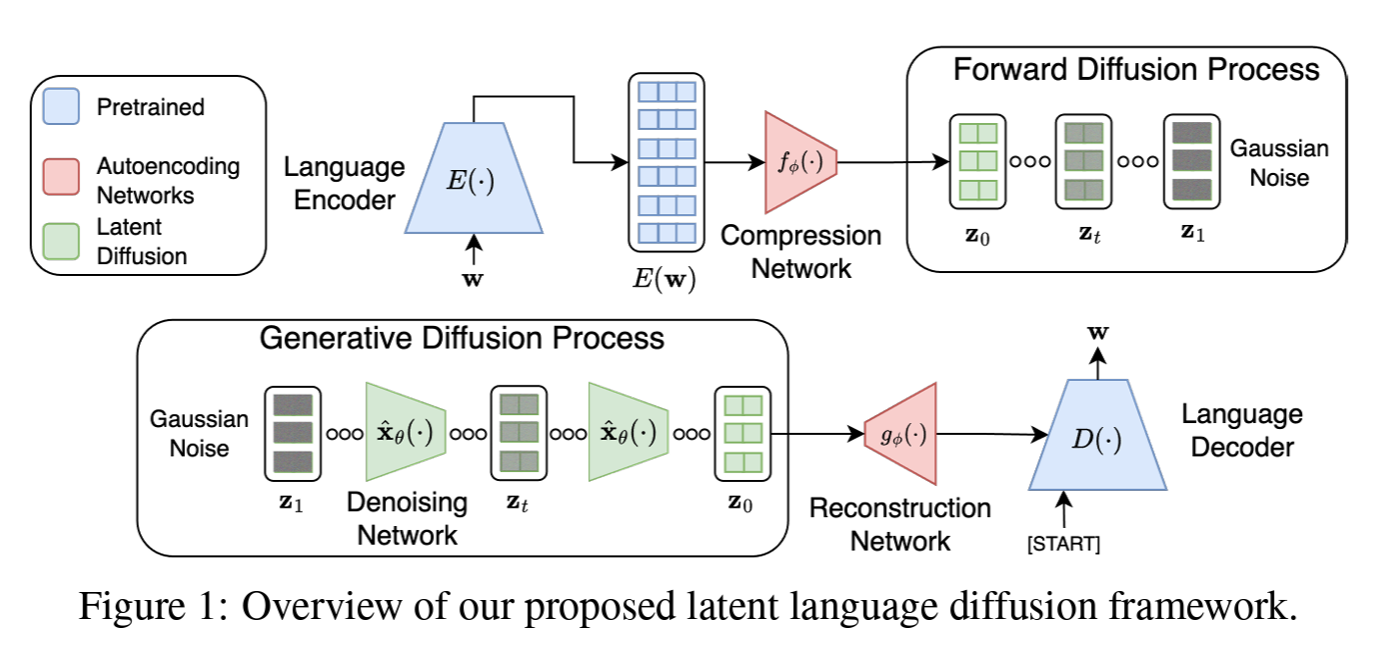
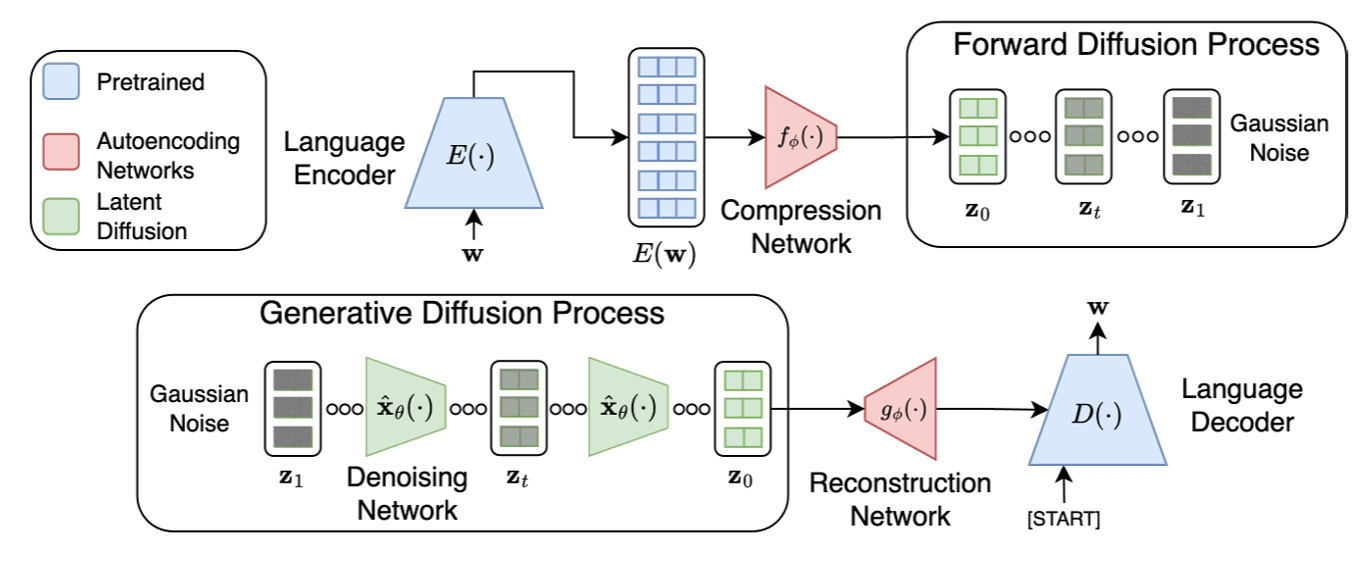
Updated readme and refactored the structure

Changed region(s): [[0.0, 0.0303, 1.0, 0.9697]]

diff --git a/documentation/background.md b/documentation/background.md
@@ -17,18 +17,22 @@ Diffusion models have been proven very successful in computer vision, such as im
 
 ![](./fig/diffusion.png)
 
-*Figure 1: Forward and reverse process in diffusion models. Adapted from [1].*
+*Forward and reverse process in diffusion models. Reproduced from [1].*
 
 A typical diffusion architecture in vision uses a combination of a **Text Encoder** (such as CLIP), a **Noise Estimate Network (NEN)** and **VAE(Variational Autoencoder)**. Typically, NEN using **U-Net** dominates diffusion models in vision. However, diffusion language models don't necessarily involve the U-Net architecture. Even if they do, the operators are not the same as diffusion models for vision, as will be discussed later. U-Net is used for progressive refinement via noise addition, and is considered as the most important part for hardware acceleration.
 
 ![](./fig/vision.png)
 
-Specifically, U-Net in latent diffusion models mainly comprises **Res Blocks** and **Attention Blocks**. The encoder and decoder parts form a "U" shape. The **Res Blocks** are organized with layers including linear, 2D convolution, group norm and non-linear computations. In Attention Blocks, we mainly need to deal with matirx-matrix multiplication.
+*The Stable Diffusion pipeline, illustrating the transformation from a text prompt to an image using CLIP, U-Net, and VAE. Reproduced from [Stable Diffusion (Image Generation)](https://jedrzejwalega.github.io/machine-learning/tutorial/2023/12/31/stable-diffusion.html.)*
+
+Specifically, U-Net in latent diffusion models mainly comprises **Res Blocks** and **Attention Blocks**. The encoder and decoder parts form a **"U"** shape. The **Res Blocks** are organized with layers including linear, 2D convolution, group norm and non-linear computations. In Attention Blocks, we mainly need to deal with matirx-matrix multiplication.
 
 ![](./fig/unet.png)
 
+*Reverse diffusion for guided diffusion process. Reproduced from https://deepsense.ai/wp-content/uploads/2023/03/xOverview-of-U-Net-architecture.jpeg.pagespeed.ic.oQ86PpsfAk.webp*
+
 ### Diffusion Language Models
-While diffusion models dominates fields in AIGC for image, video or audios, how to construct diffusion language model is non-trivial due to the discrete nature of text as opposed to the continuous nature of other data types. Works on diffusion models for language generation remain limited, and there is also no specialized hardware accelerator for diffusion language models, either.
+While diffusion models dominates fields in AIGC for image, video or audios, how to construct diffusion language models is non-trivial due to the discrete nature of text as opposed to the continuous nature of other data types. Works on diffusion models for language generation remain limited, and there is also no specialized hardware accelerator for diffusion language models, either.
 
 We consider two diffusion language models in this section:
 
@@ -36,19 +40,25 @@ We consider two diffusion language models in this section:
 
 - **Diffusion-LM** from [Diffusion-LM Improves Controllable Text Generation](https://arxiv.org/abs/2205.14217)[3]
 
-One approach transforms the discrete text information into continuous representation. In Diffusion-LM, instead of using the CLIP→U-Net→VAE architecture in vision, the model adopts an embedding function to map discrete text into continuous space, and also a rounding method to map embeddings back to texts. In the middle, these models adopt an encoder-decoder structure. However, it does not use ResNet blocks as seen in diffusion for vision tasks. Instead, Diffusion-LM leverages transformer-based architectures, such as BERT-style transformers, to handle sequential text data. [4] also exploits BART (Bidirectional and Auto-Regressive Transformers) and T5(Text-To-Text Transfer Transformer) as their pre-trained encoder-decoder network, as shown below.
+One approach transforms the discrete text information into continuous representation. In **Diffusion-LM**, instead of using the CLIP→U-Net→VAE architecture in vision, the model adopts an embedding function to map discrete text into continuous space, and also a rounding method to map embeddings back to texts. In the middle, these models adopt an encoder-decoder structure. However, it does not use ResNet blocks as seen in diffusion for vision tasks. Instead, Diffusion-LM leverages transformer-based architectures, such as BERT-style transformers, to handle sequential text data. [4] also exploits BART (Bidirectional and Auto-Regressive Transformers) and T5(Text-To-Text Transfer Transformer) as their pre-trained encoder-decoder network, as shown below.
 
 ![](./fig/dlm.png)
+
+*Typical latent diffusion language model. Reproduced from [Latent Diffusion for Language Generation](https://arxiv.org/abs/2212.09462)*
 
 Another approach is the use discrete diffusion, as is the case for **MDLM**. The U-Net backbone is replaced with Diffusion Transformers (DiTs for short). DiTs adapts the transformer architecture to diffusion models, enabling iterative denoising rather than **sequential token generation** (as in autoregressive models). Despite the differences, DiTs still retain several key aspects in transformer computation, such as the multi-head attetion (MHA), positional encoding (typically Rotary Position Embeddings (RoPE)), and FFN layers. DiTs accept conditional inputs (diffusion timesteps) as well as noised input IDs. At each time step, the input IDs are passed through a vocab embedding layer to represent high-dimensional vectors, and the timestep, *t*, is also embedded as a vector. The embedded inputs and timesteps are processed through multiple **DDiTBlocks** and go into a final layer specific to gradually denoise the inputs. A scheduler is utilized to manage the noise and its schedule, generating meaningful contents in the end. The following figure illustrates the overall architecture in MDLM.
 
 ![](./fig/MDLM.jpg)
 
+*Overall Architecture of **Masked Diffsuion Language Model** containing multiple DiTs.*
+
 A more detailed architecture for DDitBlock is as below. It accepts two inputs: input sequence of embeddings $x$, and the conditioning input $c$. $x$ remains the same dimension [seq_len, hidden_dim], rather than changing size as in autoregressive transformer models. Note that adaptive layer norm layers (adaLN) layer is utilized for $c$ prior to any residual connections within the block, allowing the block to adapt its behavior based on external timestep conditions. The rest part follows similar behavior in a common transformer block.
 
 ![](./fig/DDitBlock.jpg)
 
-To summarize, diffusion language models adopt different (most likely transformer blocks) operators during denoising phase. Some adopts DiT rather than U-Net architecture, and achieves improved performance. Because MDLM is a state-of-the-art work that outperforms Diffusion-LM, and also follows a more reusable DiT architecture, we choose to implement MDLM in Allo. Currently, we are working on the DDitBlock, but we will move on to other components and achives an end-to-end implementation on FPGA.
+*Detailed diffusion transformer computation process in MDLM.*
+
+To summarize, diffusion language models adopt different (most likely transformer blocks) operators during denoising phase. Some adopts DiT rather than U-Net architecture, and achieves improved performance. Because MDLM is a state-of-the-art work that outperforms Diffusion-LM, and also follows a more reusable DiT architecture, we choose to implement MDLM in Allo. Currently, we are working on the DDitBlock, but we will move on to other components and achives an end-to-end implementation on FPGA. 
 
 ### Related Hardware Acceleration
 
@@ -58,29 +68,37 @@ We study several existing works on diffusion model accelrator as below.
 We investigate existing works to realize the efficient hardware acceleration for diffusion models. *SDA: Low-Bit Stable Diffusion Acceleration on Edge FPGAs* [5], claims to be the first hardware accelerator for stable diffusion. It adopts 1) a unified computational array (systolic array) for convolution and matrix multiplication, and 2) a centralized module for non-linear operations. Its overal architecture of SDA is illustrated below.
 
 ![](./fig/sda.png)
+
+*Overall architecture of SDA. Reproduced from [5]*
+
 Here, **Hybrid SA** is a specially designed systolic array to accelerate both convolution and matrix multiplication in Attention Blocks. It supports both output-stationary and weight-stationary dataflows, and support different quantization schemes with DSP packing. 
 
 **Special Function Unit (SFU)** is the non-linear module with fine-grained pipeline, and is connected with Hybrid SA using Shared Tile Buffer.
 
-##### Low-bit Quantization, Hybrid Dataflow switching and DSP Packing 
+**Low-bit Quantization, Hybrid Dataflow switching and DSP Packing**
+
 The work uses Quantization-Aware Training(QAT) and applies distinct scaling factors at each denoising step to preserve accuracy. It is able to reduce the weight to 4 bit without degrading the accuracy. For activation, they use 8-bit representation. Evaluation metrics including FID and CLIP score show good results of the quantization scheme. 
 
 ![](./fig/fid.png)
 
-The work provides insights that two different dataflows are required by matrix multiplication and convolution. For **MM**, Softmax, LNorm, GeGLU requires a row of data as soon as possible, so output stationary is preferred, while for **Conv**, GNorm requires the first G channels as soon as possible so weight-stationary is better in this case. 
+*FID and CLIP evaluation. Reproduced from [5]. *
+
+In addition, the work provides insights that two different dataflows are required by matrix multiplication and convolution. For **MM**, Softmax, LNorm, GeGLU requires a row of data as soon as possible, so output stationary is preferred, while for **Conv**, GNorm requires the first G channels as soon as possible so weight-stationary is better in this case. 
 
 To further improves computation efficiency, the work packs up to 6 multiplications and 2 additions (4 W4A8 operations for convolution and 2 W4A8 operations for matrix multiplication). 
 
-The important workflow of DSP packing and dataflow transitions is illustrated below.
+The important workflow of DSP packing and dataflow transitions is illustrated as belows.
 
 ![](./fig/pack.png)
 
-Currently, our MDLM accelerator only supports float32. Inspired by SDA, we might also consider adopting quantization and DSP packing for improved resource efficiency and performance.
+*Different dataflows and DSP packing schemes. Reproduced from [5].*
+
+Currently, our MDLM accelerator only supports float32. Inspired by SDA, we might also consider adopting quantization and DSP packing for improved resource efficiency and performance in the future.
 
 #### **SQ-DM: Accelerating Diffusion Models with Aggressive Quantization and Temporal Sparsity**
 *SQ-DM: Accelerating Diffusion Models with Aggressive Quantization and Temporal Sparsity* [6], is another accelerator featuring a co-design of aggressive, low bit-width quantization, as well as activation sparsity to significantly speed up diffusion models. The methods are reported to efficiently address the challenges of generating high-quality content, which is typically slow due to the multiple time steps required in the inference process.
 
-##### Key Novelty
+**Key Novelty**
 This paper presents new techniques for accelerating diffusion models through a combination of aggressive quantization and structured sparsity. For the diffusion models,  Elucidated Diffusion Models are selected as the baseline. This paper presents a co-designed hardware-software approach for accelerating diffusion models using a combination of: 
 
 - Aggressive 4-bit quantization
@@ -91,252 +109,28 @@ This paper presents new techniques for accelerating diffusion models through a c
 
 ![](./fig/sens.png)
 
+*Sensitivity study across different layers indicates the necessity of hybrid quantization during diffusion inference.  Reproduced from [6].*
+
 Apart from that, the paper replaces SiLU with ReLU for hardware efficiency, as SiLU requires signed INT4, leading to underutilization of available bit-width, while ReLU maximizes representation capacity. ReLU-based models achieve comparable image quality to SiLU models while improving activation sparsity.
 
 **Sparsity** Another important observation is the temporal per-channel activation sparsity. The authors analyze sparsity patterns across time steps and observe that different activation channels exhibit varying levels of sparsity at different time steps. Instead of treating all channels equally, they introduce a dynamic sparse-dense execution strategy, where the sparse channels are processed using a **sparse processing unit (SPE)**, and the dense channels are computed using a **dense processing unit (DPE)**.
 
 ![](./fig/sparsity.png)
 
+*Sparsity patterns in different channels at different time steps. Reproduced from [6].*
+
 **Proposed Accelerator Architecture** The paper proposes a **Heterogeneous Dense/Sparse Accelerator Architecture**. It essentially involves both Dense Processing Elements (DPEs) and Sparse Processing Elements (SPEs) for dense/sparse computation modes. A sparsity-aware address generator is responsible for dynamically determining sparse/dense channels and fetches only relevant data from memory, and allows parallel execution of dense and sparse computations.
 
 ![](./fig/accelerator.png)
 
+*Overall architecture of SQ-DM. Reproduced from [6].*
 Using the Stonne simulator, the accelerator is reported to achieve an overall 6.91× total speed-up compared to an FP16 SiLU-based diffusion model with the 4-bit quantization and sparsity techniques.
 
 
-#### Insights
+#### **Literature Review Insights**
 From the literature reviews, existing works have been focusing on efficient mixed-precision quantization. Since diffusion inference typically involes many timesteps and gradual denoising, a more careful study to understand the quantization sensitivity of each timestep is useful to achieve minimal quality degradation. Apart from quantization, it is also inspiring to explore DSP packing, more efficient dataflow management, and even sparsity for diffusion accelerator development in general.
 
-## GPU Side Profiling 
-In this section, the profiling results on GPUs for both MDLM and Diffusion-LM will be demonstrated and analyized. We are specifically interested in their performance bottlenecks and operator types, which help us develop the accelerator in HLS. 
-
-### Experimental Setup
-In this study, we used the PyTorch Profiler and TensorBoard to analyze the performance of both MDLM and Diffusion-LM. The model backbones are manually extracted from their original project without the complexed front-end and back-end processing for better performance measurement. The batch size and timestep parameters are varied to observe their impact on model performance.
-
-For simplicity, for the final bottleneck analysis, I choose batch_size=16, timestep=128(as recommened by the original project) for **MDLM**, and batch_size=1, timestep=20 for **Diffusion-LM** because of its low cuda utilization. MDLM is better supported by GPU.
-
-### Profiling Analysis
-#### MDLM
-CPU Time: 5.708 seconds
-
-CUDA Time: 4.940 seconds
-
-Top cuda execution time lists is shown in the table.
-| Name | CUDA Total | CPU Total% |
-| --- | --- | --- |
-| model_inference  | 4.578s | - |
-| aten::linear | 3.834s | 21.53% |
-| aten::addmm | 1.453s | 4.61% |
-| bias_dropout_add_scale_fused | 897.167ms | 7.29% |
-| aten::mul | 683.187ms | 2.76% |
-
-The linear and matrix multiplication operations are critical components and likely form the bottleneck.These are likely tied to the fully connected layers and attention computation particularly in the transformer blocks. 
-
-![](./fig/summary.png)
-
-![](./fig/timestep.png)
-
-The GPU utilization is very high for MDLM. The majority of the execution time is spent in the Kernel operation, as desired.
-
-![](./fig/utilization.png)
-
-The operator view also shows that the linear computations as in linear projection and fully connected layer, as well as the attention mechanism is likely the system bottleneck. Note that the memory operations that copy data between different memory locations and convert tensors between CPUs and GPUs are neccessary in our system, but causes extra memory overhead.
-
-![](./fig/memoryview.png)
-
-![](./fig/image.png)
-
-The module view aligns with our expectation for how the model would operate.
-
-#### Diffusion-LM
-Diffusion-LM is operated entirely on CPU for better analysis as it seems to have a poor cuda utilization rate.
-
-![](./fig/diffusionLM.png)
-
-![](./fig/operator.png)
-
-Again, **aten::linear** and **aten::addmm** are the most significant, consuming the majority of total time. Layer norm and batch matrix multiplication are also relatively prominent.
-
-![](./fig/dlmmem.png)
-
-![](./fig/process.png)
-
-#### Conclusion
-While the two models initially appears distinct in their design and model structure, the profiling and analysis reveals good similarities in their computational matter. By focusing on their shared operators, especially the GEMM and GEMV computations from linear layers and attention computations, we could use optimized Allo systolic arrays to support both models. For our current target, we choose to focus on MDLM, as it has more regular structure and offers better performance. 
-
-## Roofline Model Analysis
-The **Roofline Model** helps analyze the performance of computational workloads by comparing the **number of floating-point operations (FLOPs)** to the available **memory bandwidth** in a system. The performance is determined by the minimum of the **peak throughput (Peak_FLOPS)** and the available memory bandwidth multiplied by the **operation intensity (OI)**. The relationship could be modeled as:
-
-![](./fig/form.png)
-
-Where:
-- **\#FP_ops** represents the total number of floating-point operations.
-- **Latency** is the computational latency of the operations.
-- **Peak_FLOPS** is the system's peak floating-point operations per second.
-- **Peak_MBW** is the peak memory bandwidth.
-- **OI** is defined as the ratio of **\#FP_ops** to **\#Bytes**. It indicates how many floating-point operations are performed for each byte of data transferred.
-
-The performance of the system is determined by comparing the **Peak_FLOPS** (computational capacity) and **\#FP_ops / \#Bytes × Peak_MBW**. As shown in the figure below, a system is considered **memory-bound** if OI is less than the turning point. Otherwise it is **computation-bound** when OI exceeds the turning point.
-
-![](./fig/roofline.png)
-
-### Performance Evaluation
-For the DDitBlock featuring sequential computations through various operators, The total **FLOPs** for each step are modeled as below. Specifically, all the GEMM computations are supported by output-stationary styled systolic arrays.
-
-![](./fig/sa.png)
-
-Example analysis is as below:
-- **Step 1: adaLN_modulate**
-  - FLOPs = 128 * 3072 * 2
-  - This step uses a systolic array with 1x8 **PEs**.
-
-- **Step 2: Modulate_fused**
-  - **LayerNorm**: 8 * 1024 * 512 FLOPs
-  - **Scale**: 3 * 1024 * 512 FLOPs
-
-- **Step 3: Q, K, V**
-  - FLOPs = 1024 * 512 * 512 * 2 * 3
-  - This step is computed with a systolic array of 8x8 PEs (can be reused).
-
-  Finally, the **Total FLOPs** is determined as 5.39 GFLOPs, the **Off-chip Memory Access** is approximately 0.014 GB, so **OI** is calculated as 385 FLOPs/Byte. The performance peak achieved by the proposed architecture is 211 GFLOPS. Consider the **Memory Bandwidth**, HBM is 480 GB/s, while DRAM implementation is 38 GB/s according to the U280 datasheet. Therefore, the turning points for HBM is 0.43 FLOPs/Byte, and For DRAM 5.55 GFLOPS/Byte. Either way, The kernel is **computation-bound**, meaning the performance is limited by the compute throughput rather than memory bandwidth on the target FPGA.
-
-## Project Development
-### Current Status
-We have successfully extracted the backbones for both MDLM and Diffusion-LM, which are crucial for the next steps in hardware acceleration. The Numpy version of the MDLM DDiTBlock has been verified against the original PyTorch implementation to confirm the functional equivalence. For the kernel implementations, we present two versions of the DDitBlock, one autogerated by Allo. However, the large on-chip BRAM usage (more than 900%) makes it unrealistic to directly deploy the baseline on-board. Therefore, we utilized several techniques and improved the HLS code, and the optimized code is able to fit on-chip with reduced latency. 
-
-### Tasks Underway
-- On-board Tests and End-to-end deployment on FPGA
-- Other MDLM Components Development
-- Roofline Model Analysis for the Optimized Version
-
-### Performance Comparison
-
-The following table summarizes the performance and estimated resources from both versions. The targeted frequency is set as 100 MHz. It could be observed that the original baseline consumes more than 910% percent of BRAM, making direct FPGA deployment unfeasible. In addition, instead of directly assigning each GEMM operators distinct systolic arrays, we reuse systolic arrays that share the same tensor shape in diffusion inference(For instance, MLP1 and MLP2 during FFN utilize the same systolic arrays). This further reduces the computation resources like DSPs and LUTs.
-
-| **Version**   | **Latency (ns)** | **BRAM**    | **DSP**    | **FF**      | **LUT**      | **URAM**    |
-|---------------|------------------|-------------|------------|-------------|--------------|-------------|
-| **Baseline**  |  5.1E9           | 36693 (910%) | 2791 (30%) | 273231 (11%)| 369770 (28%) | -           |
-| **Optimized** | 4.127E9          | 1532 (37%)  | 1186 (13%) | 126044 (4%) | 170984 (13%) | 768 (80%)   |
-
-
-### Optimization Techniques
-
-To address the limitations of the Baseline Version, several optimizations were implemented to reduce memory usage, improve computation efficiency, and enable on-chip deployment. The key improvements are as follows:
-
-### BRAM Optimization and Memory Reduction
-- In the Baseline, Allo tends to copy input data on-chip all at once before initiating computations. A redundant memory copy behavior is evident. The issue lies in the fact that Allo allocates memory for the entire data upfront, even when not all of it is required. To improve memory efficiency. To avoid excessive BRAM usage, the optimized version fetch the necessary data on-chip only when needed. 
-
-- In addition, we also reuse and reallocate buffers to further reduce RAM usage. For instance, instead of storing separate copies of intermediate tensors, we introduce four key buffers—`buffer_Q`, `buffer_K`, `buffer_V`, and `buffer_x`—to store both input and intermediate results. Multiple buffers holding similar or overlapping data are merged, reducing memory fragmentation and avoiding redundant memory usage.
-
-- Utilizing URAM for large tensors: The Alveo U280 FPGA features abundant URAM resources with higher capacity. To take advantage of this, we bind large buffers to URAM using the following directive:
-
-```
-#pragma HLS bind_storage variable=target_variable type=ram_2p impl=uram
-```
-
-to offload pressure from solely BRAM.
-
-### Breaking Down Large Tensors in AdaLN
-
-- Origianlly, the code stores large tensors ([128, 3072]) for AdaLN parameters, which led to excessive memory allocation. Instead of storing AdaLN parameters as a large [128, 3072] tensor, we split it into six [128, 512] blocks, corresponding to each transformation, and calls adaLN computations without changing its functionality.
-
-### Reducing Intermediate and Output Storage
-
-- The original implementation tends to creat separate buffers for intermediate values. For instance, in the multi-head attention computation (`scaled_dot_product_attention`), values like `Y_t` and `C_h` could be directly stored in existing tensors, but Allo still duplicates the storage. To tackle the issue, we eliminated redundant buffers by writing results directly into reused storage, and removes unnecessary memory allocations when they could be reused. This drastically removes several large tensors sized [1024, 1024] amd [1024, 512], which causes large BRAM usage.
-
-### Reusing Systolic Arrays for GEMM Operations
-
-- The baseline implementation allocated separate systolic arrays for every GEMM operation, even when the matrix dimensions were identical. This increased DSP and LUT usage, leading to unnecessary hardware resource consumption. On the contrary, we reused systolic arrays for GEMM operations with the same tensor dimensions.
-
-## Allo Feature Suggestions
-The project is developed with a combined efforts of the Allo framework and mannual HLS optimizations. Allo enables fast accelerator construction and verifications, and also provides access to developers with less hardware implementations experiences. However, when dealing with large-sized model, the HLS accelerator generated by Allo almost always cannot be directly fit on-chip. It also lacks a more fine-grained control from the user's perspective. 
-
-### Redundant Memory Copy
-As discussed previously, Allo copies all input data to BRAM upfront before computation begins, even when only a portion of the data is needed. It could be useful to introduce a more efficient memory manage strategy. For instance, if the framework could identifies when the data is needed and fetch from DRAM, or target reusable buffers, it could eliminate redundant memory allocations overhead and enable on-the-fly computations more efficiently.
-
-### Custom Scheduling
-The current DDitBlock kernel is implemented using dsl.grid and a systolic array-based inner product dataflow. The design follows a sequential execution, where multiple GEMM operations from attention and feed forward calculations are processed tile-by-tile sequentailly. While the implementation is straightforward and easy to verify, the current implementation suffers from excessive BRAM usage and limited scalabilty, making it difficult to achieve further performance improvements both mannually or on the Allo side. Without adopting dataflow architecture, however, even the smallest model could not fit on-chip for the Baseline. We have tested mannual tiling following similar logics. 
-
-```
-
-# Mannual Tiling in top function follows similar logics
-def systolic[
-    TyA, TyB, TyC, M: int32, K: int32, N: int32, Mt: int32, Nt: int32
-](A: "TyA[M, K]", B: "TyB[K, N]", C: "TyC[M, N]") -> "Ty[M, N]":
-    local_A: TyA[Mt, K]
-    local_B: TyB[K, Nt]
-    local_C: TyC[Mt, Nt]
-
-    # k needs not be tiled, since it is temporal dimension
-    for mi, ni in dsl.grid(M // Mt, N // Nt, name="outer_tile"):
-        # reversed traversal, better for cascading systolic arrays with FIFOs
-        # corresponds to the order of the previous `store_C_tile` output
-        for ak, ai in dsl.grid(K, Mt, name="load_A_tile"):
-            # reuse along the ni dimension
-            if ni == 0:
-                local_A[ai, ak] = A[mi * Mt + ai, ak]
-        for bk, bj in dsl.grid(K, Nt, name="load_B_tile"):
-            # reuse along the mi dimension
-            # since the inner access order is different from the outer one,
-            # we cannot cache as a line buffer
-            local_B[bk, bj] = B[bk, ni * Nt + bj]
-        systolic_tile[TyA, TyB, TyC, K, Mt, Nt](
-            local_A,
-            local_B,
-            local_C,
-        )
-        # reversed traversal, better for cascading systolic arrays with FIFOs
-        for sj, si in dsl.grid(Nt, Mt, name="store_C_tile"):
-            C[mi * Mt + si, ni * Nt + sj] = local_C[si, sj]
-        return C
-```
-
-However, it is hard to specify the composition and schedules, leading to some errors like incorrect indexing in the HLS code.
-
-### More Efficient Streaming
-
-Currently, more dataflows are expected to be supported in the improved framework, not limited to inner product, output stationary manner. It should also be beneficial to experiment with a dataflow-based streaming architecture that leverages streaming FIFOs and replace static BRAM allocation. In Allo, the streaming FIFOs are implmented as pipes (`df.pipe`), which enable data streaming between different components without explicit memory access. 
-
-For instance, for the streaming FIFO example below, a producer kernel generates data and pushes it into a streaming FIFO, and a consumer retrieves the data for computation, just as the mannual organization in HLS. Here, the producer kernel reads elements from matrix A and streams them into a pipe. The consumer kernel retrieves each elements and adds 1, storing the results in matrix B. Allo also compiles the dataflow into MLIR, and we could see how the streaming mechanism is defined at a hardware level.
-
-```
-import allo
-from allo.ir.types import float32, Stream
-import allo.dataflow as df
-import numpy as np
-
-Ty = float32
-M, N, K = 16, 16, 16
-
-@df.kernel(mapping=[1])
-def producer(A: Ty[M, N]):
-    pipe: Stream[Ty] = df.pipe(src="producer", dst="consumer")
-    for i, j in allo.grid(M, N):
-        # load data
-        out: Ty = A[i, j]
-        # send data
-        pipe.put(out)
-
-@df.kernel(mapping=[1])
-def consumer(B: Ty[M, N]):
-    pipe: Stream[Ty] = df.pipe(src="producer", dst="consumer")
-    for i, j in allo.grid(M, N):
-        # receive data
-        data = pipe.get()
-        # computation
-        B[i, j] = data + 1
-
-A = np.random.rand(M, N).astype(np.float32)
-B = np.zeros((M, N), dtype=np.float32)
-top = df.build([producer, consumer])
-top(A, B)
-np.testing.assert_allclose(A + 1, B)
-print("Passed!")
-```
-
-The GEMM could also be supported with multiple levels of streaming FIFOs. The input data will be read into HLS streams from off-chip, thus decoupling array size from the input dimensions. Additionally, multiple operators can also be connected through FIFOs, as comparable to "operator fusion". However, to support large and complexed model deployment, such as the entire diffusion transformer block, it is very challenging to ensure that the data flows between operators with correct functionality.
-
-Through a smarter memory management and buffer reuse, combined with flexible dataflow support, these enhancement could make Allo more scalable and user-friendly with less mannual intervention.
+Note that this documentation will not cover the design details of our MDLM accelerator. Please refer to [**MDLM Accelerator Documentation**](documentation/mdlm.md) to continue.
 
 ## References
 [1] Croitoru F A, Hondru V, Ionescu R T, et al. Diffusion models in vision: A survey[J]. IEEE Transactions on Pattern Analysis and Machine Intelligence, 2023, 45(9): 10850-10869.
